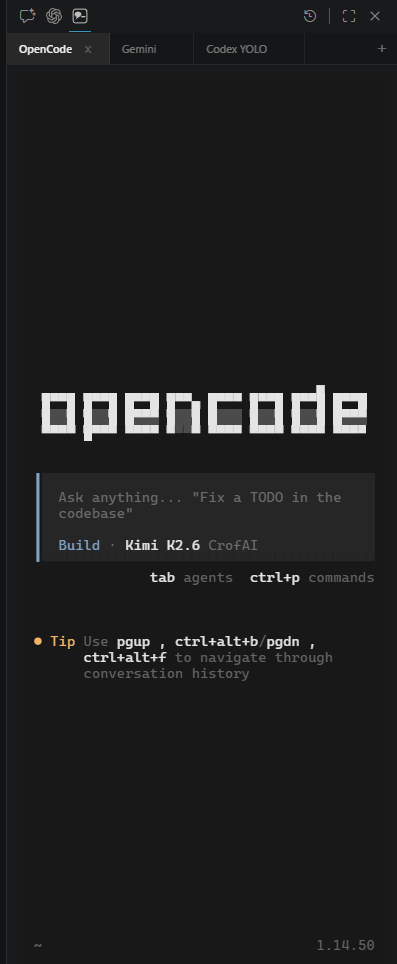
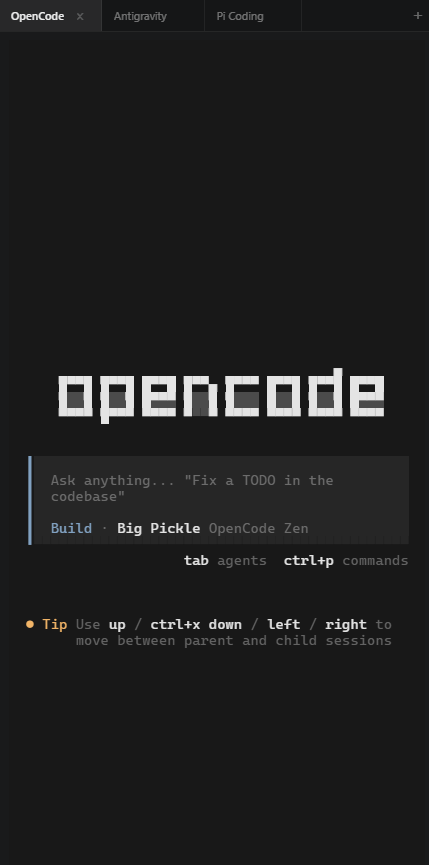
Gemini  CLI Removed

diff --git a/src/html.ts b/src/html.ts
@@ -366,16 +366,6 @@ export function getHtml(
     </div>
 
     <div class="btn-group">
-      <button class="launch-btn expandable" data-group="gemini">
-        <span class="btn-icon" style="background:#4285f4"></span>Gemini<span class="btn-arrow">&#9656;</span>
-      </button>
-      <div class="sub-items" data-for="gemini">
-        <button class="sub-item" data-cmd="open-gemini"><span class="sub-dot"></span>Normal</button>
-        <button class="sub-item" data-cmd="open-gemini-yolo"><span class="sub-dot"></span>YOLO Mode</button>
-      </div>
-    </div>
-
-    <div class="btn-group">
       <button class="launch-btn expandable" data-group="antigravity">
         <span class="btn-icon" style="background:#f4b400"></span>Antigravity<span class="btn-arrow">&#9656;</span>
       </button>

diff --git a/src/extension.ts b/src/extension.ts
@@ -49,8 +49,6 @@ interface Tab {
 
 interface BuiltinCLI { label: string; cmd: string; msgCmd: string; }
 const BUILTIN_CLIS: BuiltinCLI[] = [
-  { label: "Gemini",             cmd: "gemini",                                           msgCmd: "open-gemini" },
-  { label: "Gemini \u2014 YOLO", cmd: "gemini -y",                                        msgCmd: "open-gemini-yolo" },
   { label: "Antigravity",        cmd: "agy",                                              msgCmd: "open-antigravity" },
   { label: "Antigravity \u2014 YOLO", cmd: "agy --dangerously-skip-permissions",         msgCmd: "open-antigravity-yolo" },
   { label: "Claude",             cmd: "claude",                                            msgCmd: "open-claude" },
@@ -104,12 +102,6 @@ export function activate(context: vscode.ExtensionContext) {
       if (picked) {
         provider.launch(picked.cmd, picked.label);
       }
-    }),
-    vscode.commands.registerCommand("pivotcli.openGemini", () => {
-      provider.launch("gemini");
-    }),
-    vscode.commands.registerCommand("pivotcli.openGeminiYolo", () => {
-      provider.launch("gemini -y");
     }),
     vscode.commands.registerCommand("pivotcli.openAntigravity", () => {
       provider.launch("agy");

diff --git a/README.md b/README.md
@@ -2,12 +2,12 @@
 
 A VS Code extension that gives you a sidebar panel to launch AI coding CLI tools — right inside your editor. Run multiple sessions in tabs, switch between them, and multitask.
 
-Supports Claude, Codex, Gemini, Antigravity, OpenCode, Pi Coding, OpenClaude, KiloCode, CommandCode — and any custom CLI you configure.
+Supports Claude, Codex, Antigravity, OpenCode, Pi Coding, OpenClaude, KiloCode, CommandCode — and any custom CLI you configure.
 
 <p align="center">
   <img src="images/Screenshot_2.png" alt="PivotCLI homepage" width="320">
   &nbsp;&nbsp;
-  <img src="images/Screenshot_1.png" alt="PivotCLI session" width="200">
+  <img src="images/Screenshot_1.png" alt="PivotCLI session" width="320">
 </p>
 
 ## Supported CLIs
@@ -16,8 +16,7 @@ Supports Claude, Codex, Gemini, Antigravity, OpenCode, Pi Coding, OpenClaude, Ki
 |-----|--------|-----------|
 | [Claude Code](https://docs.anthropic.com/en/docs/claude-code) | `claude` | `claude --dangerously-skip-permissions` |
 | [Codex CLI](https://github.com/openai/codex) | `codex` | `codex --dangerously-bypass-approvals-and-sandbox` |
-| [Gemini CLI](https://github.com/google-gemini/gemini-cli) | `gemini` | `gemini -y` |
-| Antigravity CLI | `agy` | `agy --dangerously-skip-permissions` |
+| [Antigravity CLI](https://antigravity.google/product/antigravity-cli) | `agy` | `agy --dangerously-skip-permissions` |
 | [OpenCode](https://github.com/opencode-ai/opencode) | `opencode` | — |
 | [Pi Coding](https://pi.dev) | `pi` | `pi` |
 | [OpenClaude](https://github.com/badkobzaar/openclaudecodecli) | `openclaude` | `openclaude --dangerously-skip-permissions` |
@@ -32,7 +31,7 @@ Supports Claude, Codex, Gemini, Antigravity, OpenCode, Pi Coding, OpenClaude, Ki
 - Multi-tab support — run multiple CLIs simultaneously
 - Flat square tab bar with activity indicators
 - **Tab persistence** — open tabs are restored automatically after VS Code restarts
-- YOLO mode for Gemini, Antigravity, Claude, Codex, OpenClaude & CommandCode
+- YOLO mode for Antigravity, Claude, Codex, OpenClaude & CommandCode
 - Embedded terminal powered by xterm.js with full PTY support
 - Session history — quickly relaunch previous sessions
 

diff --git a/CHANGELOG.md b/CHANGELOG.md
@@ -1,5 +1,9 @@
 # Changelog
 
+## 3.0.7
+
+- Removed Gemini CLI support (replaced by Antigravity CLI)
+
 ## 3.0.5
 
 - Added Antigravity CLI support in the launcher with Normal mode (`agy`) and YOLO Mode (`agy --dangerously-skip-permissions`)